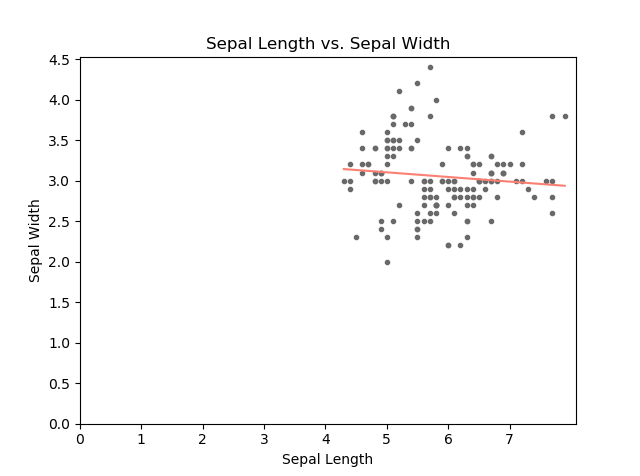
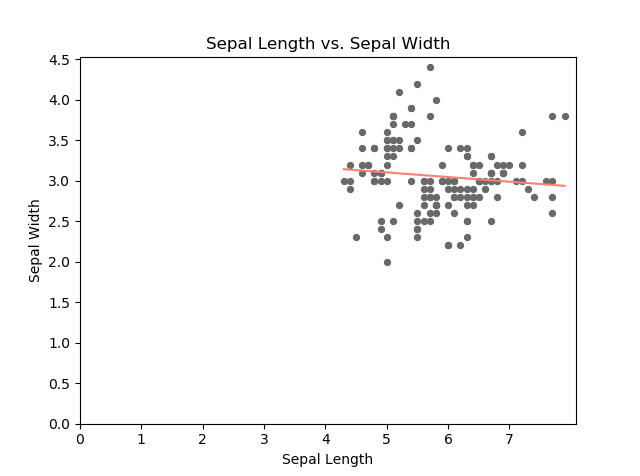
formatting

diff --git a/scatter1.py b/scatter1.py
@@ -1,10 +1,9 @@
 #Marion McGowan, 16/04/2018
 #Graphical Analysis of Iris Dataset
 
-#This program graphs Sepal Length against Sepal Wisth, and Petal Length against Petal Width, 
-# calculating the Correlation Coefficient for both.
-#It also graphs Sepal Length against the Petal Length and Sepal Width against Petal Width,
-# calculating the Correlation Coefficient for both.
+#This program geaphs measurements against one another on a scatter graph. 
+#There are six graphs in totalagainst the Petal Length and Sepal.
+#The Correlation Co-eff is calculated for each graph.
 
 import numpy as np
 import matplotlib.pyplot as pl
@@ -17,24 +16,34 @@ thirdcol= data[:,2]
 fourcol= data[:,3]
 
 #Finding the Correlation Coefficent
-Corr12 = np.corrcoef(firstcol, seccol) [0, 1]
-a= "{0:.4f}".format(round(Corr12, 4))
+corr1 = np.corrcoef(firstcol, seccol) [0, 1]
+a= "{0:.4f}".format(round(corr1, 4))
 print("The correlation coefficient for Sepal Length and Sepal Width is ", a) 
 
-Corr34 = np.corrcoef(thirdcol, fourcol) [0, 1]
-b= "{0:.4f}".format(round(Corr34, 4))
+corr2 = np.corrcoef(thirdcol, fourcol) [0, 1]
+b= "{0:.4f}".format(round(corr2, 4))
 print("The correlation coefficient for Petal Length and Petal Width is ", b)
 
-Widthcorr = np.corrcoef(firstcol, thirdcol) [0, 1]
-c= "{0:.4f}".format(round(Widthcorr, 4))
+corr3 = np.corrcoef(seccol, fourcol) [0, 1]
+c= "{0:.4f}".format(round(corr3, 4))
 print("The correlation coefficient for Sepal Width and Petal Width is ", c)
 
-Lengthcorr = np.corrcoef(seccol, fourcol) [0, 1]
-d= "{0:.4f}".format(round(Lengthcorr, 4))
+corr4 = np.corrcoef(firstcol, thirdcol) [0, 1]
+d= "{0:.4f}".format(round(corr4, 4))
 print("The correlation coefficient for Sepal Length and Petal Length is ", d)
 
+corr5 = np.corrcoef(firstcol, fourcol) [0, 1]
+e= "{0:.4f}".format(round(corr5, 4))
+print("The correlation coefficient for Sepal Length and Petal Width is ", e)
+
+corr6 = np.corrcoef(seccol, thirdcol) [0, 1]
+f= "{0:.4f}".format(round(corr6, 4))
+print("The correlation coefficient for Sepal Width and Petal Length is ", f)
+
+
+
 #Plotting the scatter diagrams with their lines of best fit will show us a graphical representation of correlation
-pl.scatter(firstcol, seccol, s = 10, color = 'dimgrey', marker='8')
+pl.scatter(firstcol, seccol, s = 20, color = 'dimgrey', marker='8')
 pl.title('Sepal Length vs. Sepal Width')
 pl.xlabel('Sepal Length')
 pl.ylabel('Sepal Width')
@@ -44,7 +53,23 @@ pl.yticks([0, 0.5, 1, 1.5,  2, 2.5, 3, 3.5, 4, 4.5])
 pl.xticks([0, 1, 2, 3,  4, 5, 6, 7])
 pl.show()
 
-pl.scatter(firstcol, thirdcol, s = 10, color='dimgrey', marker = '8')
+pl.scatter(thirdcol,fourcol, s=20, color='dimgrey', marker = '8')
+pl.title('Petal Length vs. Petal Width')
+pl.xlabel('Petal Length')
+pl.ylabel('Petal Width')
+pl.plot(np.unique(thirdcol), np.poly1d(np.polyfit(thirdcol, fourcol, 1))(np.unique(thirdcol)), color = 'salmon')
+pl.xticks([0, 1, 2, 3,  4, 5, 6, 7])
+pl.show()
+
+pl.scatter(seccol, fourcol, s = 20, color = 'dimgrey', marker = '8')
+pl.title('Sepal Width vs.Petal Width')
+pl.xlabel('Sepal Width')
+pl.ylabel('Petal Width')
+pl.plot(np.unique(seccol), np.poly1d(np.polyfit(seccol, fourcol, 1))(np.unique(seccol)), color = 'salmon')
+pl.xticks([0, 0.5, 1, 1.5,  2, 2.5, 3, 3.5, 4, 4.5])
+pl.show()
+
+pl.scatter(firstcol, thirdcol, s = 20, color='dimgrey', marker = '8')
 pl.title('Sepal Length vs.Petal Length')
 pl.xlabel('Sepal Length')
 pl.ylabel('Petal Length')
@@ -53,21 +78,24 @@ pl.xticks([0, 1, 2, 3,  4, 5, 6, 7, 8])
 pl.yticks([0, 1, 2, 3,  4, 5, 6, 7, 8])
 pl.show()
 
-pl.scatter(seccol, fourcol, s = 10, color = 'dimgrey', marker = '8')
-pl.title('Sepal Width vs.Petal Width')
-pl.xlabel('Sepal Width')
+pl.scatter(firstcol, fourcol, s = 20, color='dimgrey', marker = '8')
+pl.title('Sepal Length vs.Petal Width')
+pl.xlabel('Sepal Length')
 pl.ylabel('Petal Width')
-pl.plot(np.unique(seccol), np.poly1d(np.polyfit(seccol, fourcol, 1))(np.unique(seccol)), color = 'salmon')
-pl.xticks([0, 0.5, 1, 1.5,  2, 2.5, 3, 3.5, 4, 4.5])
+pl.plot(np.unique(firstcol), np.poly1d(np.polyfit(firstcol, fourcol, 1))(np.unique(firstcol)), color = 'salmon')
+pl.xticks([0, 1, 2, 3,  4, 5, 6, 7, 8])
+pl.yticks([0, 1, 2, 3,  4, 5, 6, 7, 8])
 pl.show()
 
-pl.scatter(thirdcol,fourcol, s=10, color='dimgrey', marker = '8')
-pl.title('Petal Length vs. Petal Width')
-pl.xlabel('Petal Length')
-pl.ylabel('Petal Width')
-pl.plot(np.unique(thirdcol), np.poly1d(np.polyfit(thirdcol, fourcol, 1))(np.unique(thirdcol)), color = 'salmon')
-pl.xticks([0, 1, 2, 3,  4, 5, 6, 7])
+pl.scatter(seccol, thirdcol, s = 20, color='dimgrey', marker = '8')
+pl.title('Sepal Width vs.Petal Length')
+pl.xlabel('Sepal Width')
+pl.ylabel('Petal Length')
+pl.plot(np.unique(seccol), np.poly1d(np.polyfit(seccol, thirdcol, 1))(np.unique(seccol)), color = 'salmon')
+pl.xticks([0, 1, 2, 3,  4, 5, 6, 7, 8])
+pl.yticks([0, 1, 2, 3,  4, 5, 6, 7, 8])
 pl.show()
+
 #Referred to the following Youtube videos when customising my scatter diagrams
 #https://www.youtube.com/watch?v=WbTOutpwPHs
 

diff --git a/scatter2.py b/scatter2.py
@@ -4,7 +4,6 @@
 #For this task, I copied and pasted my iris data into 3 seperate csv files, one for each species.
 #I hope to find a more efficient way of performing this task in the future. 
 #UPDATED (20/04/2018): To better compare across species I plotted all 3 subplots on 1 coordinate graph.
-
 import numpy as np
 import matplotlib.pyplot as pl
 
@@ -31,9 +30,6 @@ vers4= data[:,3]
 #https://matplotlib.org/examples/pylab_examples/subplots_demo.html
 
 f, ax=pl.subplots(1)
-f.legend(loc=1, fontsize='small', shadow=True)
-#Refered to https://matplotlib.org/api/legend_api.html
-
 ax.scatter(set1,set2, color='r', s =20, label='Iris-Setosa')
 ax.scatter(virg1,virg2, color='g', s = 20, label='Iris-Virginica')
 ax.scatter(vers1,vers2, color='b', s=20, label='Iris-Versicolor')
@@ -41,28 +37,8 @@ ax.set_title('Sepal Length vs. Sepal Width')
 f.text(0.5, 0.02, 'Sepal Length', ha='center')
 f.text(0.03, 0.5, 'Sepal Width', va='center', rotation='vertical')
 #Refered to https://stackoverflow.com/questions/16150819/common-xlabel-ylabel-for-matplotlib-subplots
-
+f.legend(loc=1, fontsize='small', shadow=True)
 #Refered to https://matplotlib.org/api/legend_api.html
-pl.show()
-
-f, ax=pl.subplots(1)
-ax.scatter(set1,set3, color='r', s =20, label='Iris-Setosa')
-ax.scatter(virg1,virg3, color='g', s = 20, label='Iris-Virginica')
-ax.scatter(vers1,vers3, color='b', s=20, label='Iris-Versicolor')
-ax.set_title('Sepal Length vs. Petal Length')
-f.text(0.5, 0.02, 'Sepal Length', ha='center')
-f.text(0.03, 0.5, 'Petal Length', va='center', rotation='vertical')
-
-pl.show()
-
-f, ax=pl.subplots(1)
-ax.scatter(set1,set4, color='r', s =20, label='Iris-Setosa')
-ax.scatter(virg1,virg4, color='g', s = 20, label='Iris-Virginica')
-ax.scatter(vers1,vers4, color='b', s=20, label='Iris-Versicolor')
-ax.set_title('Sepal Length vs. Petal Width')
-f.text(0.5, 0.02, 'Sepal Length', ha='center')
-f.text(0.03, 0.5, 'Petal Width', va='center', rotation='vertical')
-
 pl.show()
 
 f, ax=pl.subplots(1)
@@ -72,8 +48,47 @@ ax.scatter(vers3,vers4, color='b', s=20, label='Iris-Versicolor')
 ax.set_title('Petal Length vs. Petal Width')
 f.text(0.5, 0.02, 'Petal Length', ha='center')
 f.text(0.03, 0.5, 'Petal Width', va='center', rotation='vertical')
+f.legend(loc=1, fontsize='small', shadow=True)
 
 
+f, ax=pl.subplots(1)
+ax.scatter(set2,set4, color='r', s =20, label='Iris-Setosa')
+ax.scatter(virg2,virg4, color='g', s = 20, label='Iris-Virginica')
+ax.scatter(vers2,vers4, color='b', s=20, label='Iris-Versicolor')
+ax.set_title('Sepal Width vs. Petal Width')
+f.text(0.5, 0.02, 'Sepal Width', ha='center')
+f.text(0.03, 0.5, 'Petal Width', va='center', rotation='vertical')
+f.legend(loc=1, fontsize='small', shadow=True)
+
+
+f, ax=pl.subplots(1)
+ax.scatter(set1,set3, color='r', s =20, label='Iris-Setosa')
+ax.scatter(virg1,virg3, color='g', s = 20, label='Iris-Virginica')
+ax.scatter(vers1,vers3, color='b', s=20, label='Iris-Versicolor')
+ax.set_title('Sepal Length vs. Petal Length')
+f.text(0.5, 0.02, 'Sepal Length', ha='center')
+f.text(0.03, 0.5, 'Petal Length', va='center', rotation='vertical')
+f.legend(loc=1, fontsize='small', shadow=True)
+pl.show()
+
+f, ax=pl.subplots(1)
+ax.scatter(set1,set4, color='r', s =20, label='Iris-Setosa')
+ax.scatter(virg1,virg4, color='g', s = 20, label='Iris-Virginica')
+ax.scatter(vers1,vers4, color='b', s=20, label='Iris-Versicolor')
+ax.set_title('Sepal Length vs. Petal Width')
+f.text(0.5, 0.02, 'Sepal Length', ha='center')
+f.text(0.03, 0.5, 'Petal Width', va='center', rotation='vertical')
+f.legend(loc=1, fontsize='small', shadow=True)
+pl.show()
+
+f, ax=pl.subplots(1)
+ax.scatter(set2,set3, color='r', s =20, label='Iris-Setosa')
+ax.scatter(virg2,virg3, color='g', s = 20, label='Iris-Virginica')
+ax.scatter(vers2,vers3, color='b', s=20, label='Iris-Versicolor')
+ax.set_title('Sepal Width vs. Petal Length')
+f.text(0.5, 0.02, 'Sepal Width', ha='center')
+f.text(0.03, 0.5, 'Petal Length', va='center', rotation='vertical')
+f.legend(loc=1, fontsize='small', shadow=True)
 pl.show()
 
 

diff --git a/README.md b/README.md
@@ -104,22 +104,35 @@ This program looks at the relationship between the three different species, grap
   <th>Sepal Length vs. Sepal Width</th>
    <td><img src='img/scatter1.png'></td>
    <td><img src='img/updtsubplot1.png'></td>
-   <td>Correlation Co=efficient: -0.1094</td></tr>
+   <td>Correlation Co-efficient: -0.1094</td></tr>
  <tr>
   <th>Petal Length vs.Petal Width</th>
    <td><img src='img/scatter2.png'></td>
    <td><img src='img/updtsubplot2.png'></td>
-    <td>Correlation Co=efficient: 0.9628</td></tr>
+    <td>Correlation Co-efficient: 0.9628</td></tr>
  <tr>
   <th>Sepal Width vs. Petal Width</th>
-   <td><img src='img/scatter4.png'></td>
-   <td></td>
-   <td>Correlation Co=efficient: 0.8718</td></tr>
+   <td><img src='img/scatter3.png'></td>
+   <td><img src='img/updtsubplot3.png'></td>
+   <td>Correlation Co-efficient: -0.3565</td></tr>
  <tr>
   <th>Sepal Length vs. Petal Length </th>
-   <td><img src='img/scatter3.png'></td>
-   <td><img src='img/updtsubplot3.png'></td><td> 
-   <td>Correlation Co=efficient: -0.3565</td></tr>
+   <td><img src='img/scatter4.png'></td>
+   <td><img src='img/updtsubplot4.png'></td><td> 
+   <td>Correlation Co-efficient: 0.8718</td></tr>
+   <tr>
+  <th>Sepal Length vs. Petal Width </th>
+   <td><img src='img/scatter5.png'></td>
+   <td><img src='img/updtsubplot5.png'></td><td> 
+   <td>Correlation Co-efficient: 0.8180</td></tr>
+   <tr>
+  <th>Sepal Width vs. Petal Length </th>
+   <td><img src='img/scatter6.png'></td>
+   <td><img src='img/updtsubplot6.png'></td><td> 
+   <td>Correlation Co-efficient: -0.4205</td></tr>
+
+
+
  </table>
  
 ## References
